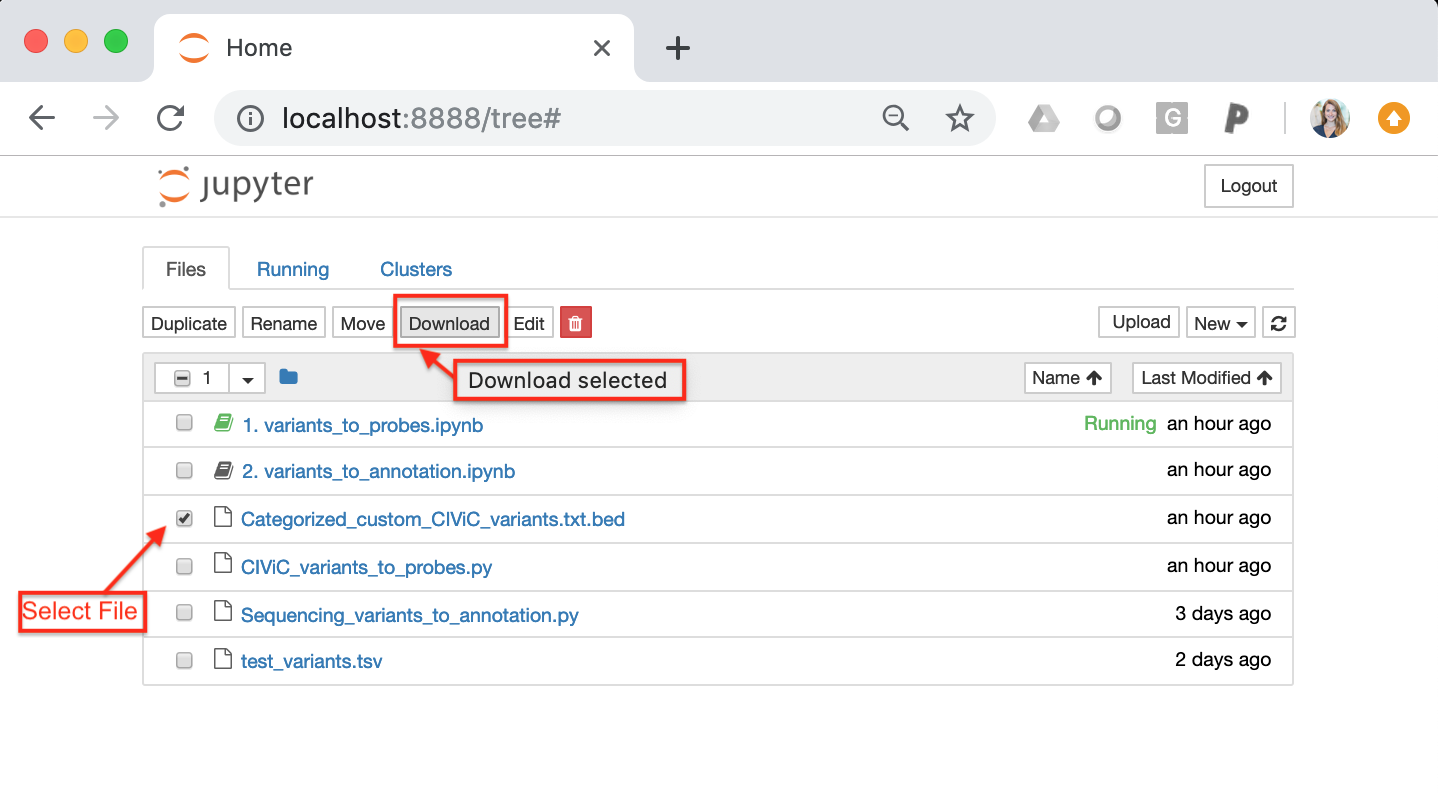
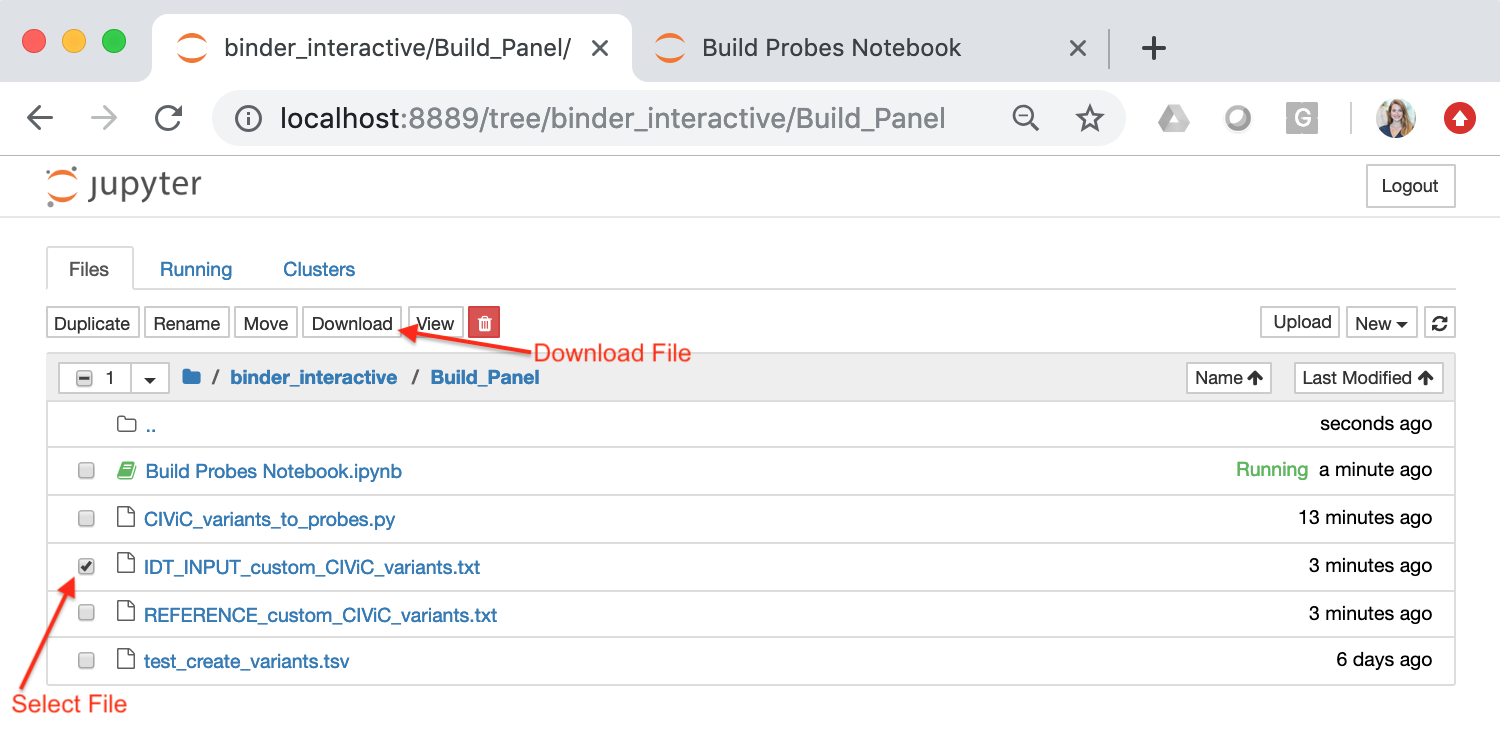
update Build capture panel section

diff --git a/binder_interactive/Build_Panel/CIViC_variants_to_probes.py b/binder_interactive/Build_Panel/CIViC_variants_to_probes.py
@@ -46,7 +46,6 @@ def create_probe_list(CIViC_variants):
         #Iterate through each variant an pull values
         variant = row['variant']
         gene = row['gene']
-        description = row['description']
         chrom = 'chr' + str(row['chromosome'])
         start = int(row['start'])
         stop = int(row['stop'])
@@ -56,20 +55,17 @@ def create_probe_list(CIViC_variants):
         if difference <= 250:
             #create probe for hotspot variant
             variant_type = 'hotspot coverage'
-            
-            probes_list.append([chrom, start, stop, variant, gene, description, str(1) + '-' + gene + '_' + variant, variant_type])
-        
-        
+            probes_list.append([chrom, start, stop + 1, variant, gene, str(1) + '-' + gene + '_' + variant, variant_type])        
         
         # If variant type is in a regulatory region or UTR
         elif 'INTRON' in variant or 'UTR' in variant:
             variant_type = 'sparse tiling'
-            probes_list.append([chrom, start, stop, variant, gene, description, str(1) + '-' + gene + '_' + variant, variant_type])
+            probes_list.append([chrom, start, stop, variant, gene, str(1) + '-' + gene + '_' + variant, variant_type])
         
         # for variant specific variant types pull CIViC coordiantes
         elif variant in civic_coordinate_variants:
             variant_type = 'sparse tiling'
-            probes_list.append([chrom, start, stop, variant, gene, description, str(1) + '-' + gene + '_' + variant, variant_type])
+            probes_list.append([chrom, start, stop, variant, gene, str(1) + '-' + gene + '_' + variant, variant_type])
         
         #If the transcript requires full tiling
         else:
@@ -103,7 +99,7 @@ def create_probe_list(CIViC_variants):
                     start = int(middle - 60)
                     stop = int(middle + 60)
                     #append this genomic region to list
-                    probes_list.append([chromosome, start, stop, variant, gene, description, str(i + 1) + '-' + gene + '_' + variant, variant_type])
+                    probes_list.append([chromosome, start, stop, variant, gene, str(i + 1) + '-' + gene + '_' + variant, variant_type])
 
             
             #Else complete full tiling
@@ -115,7 +111,7 @@ def create_probe_list(CIViC_variants):
                     chromosome = 'chr' + str(row[0])
                     start = int(row[1])
                     stop = int(row[2])
-                    probes_list.append([chromosome, start, stop, variant, gene, description, str(i + 1) + '-' + gene + '_' + variant, variant_type])
+                    probes_list.append([chromosome, start, stop, variant, gene, str(i + 1) + '-' + gene + '_' + variant, variant_type])
                 
     #Create pandas dataframe of probe list
     probes = pd.DataFrame(probes_list)
@@ -125,5 +121,5 @@ def create_probe_list(CIViC_variants):
 probe_list = create_probe_list(CIViC_variants)
 
 #Output probe list to output path
-probe_list.iloc[:,0:3].to_csv('Categorized_custom_CIViC_variants.bed', index=False, sep='\t', header=False)
-probe_list.to_csv('Categorized_custom_CIViC_variants.txt', index=False, sep='\t', header=False)
+probe_list.iloc[:,0:3].to_csv('IDT_INPUT_custom_CIViC_variants.txt', index=False, sep='\t', header=False)
+probe_list.to_csv('REFERENCE_custom_CIViC_variants.txt', index=False, sep='\t', header=False)

diff --git a/docs/Build custom capture panel.rst b/docs/Build custom capture panel.rst
@@ -68,17 +68,21 @@ Once the Jupiter Notebook is loaded, you can add your Custom CIViC Variants file
 
 .. image:: images/Upload_Variants.png
 
-To launch the Jupyter Notebook select the file entitled, "1. variants_to_probes.ipynb" in the home directory. Selecting this file will direct you to a new tab in the same browser. Instructions for how to run the cells are provided in the notebook. In the Jupyter Notebook cell, ensure that you change the input variant list file name to match the Custom CIViC Variants file that you uploaded to the home directory. The default file name is 'test_variants.tsv' - See below:
+To launch the Jupyter Notebook select the file entitled, "Build Probes Notebook" in the home directory. Selecting this file will direct you to a new tab in the same browser. Instructions for how to run the cells are provided in the notebook. In the Jupyter Notebook cell, ensure that you change the input variant list file name to match the Custom CIViC Variants file that you uploaded to the home directory. The default file name is 'test_variants.tsv' - See below:
 
 .. image:: images/Run_variants_to_probes.png
 
-Once you have changed the file name, hold down the "Shift" key and select "Enter" to parse your Custom CIViC variants. Once the code is done, a new file will appear in the home directory called "Categorized_custom_CIViC_variants.txt.bed". You can download this file to your local computer 
+Once you have changed the input file name, hold down the "Shift" key and select "Enter" to parse your Custom CIViC variants. Once the code is done, two new files will appear in the home directory:
+	- IDT_INPUT_custom_CIViC_variants.txt = coordinates for all probes required to capture variants of interest without annotation
+	- REFERENCE_custom_CIViC_variants.txt = list of all probes required to capture variants of interest with annotation (gene name, probe id, type of tiling)
+
+You can download these files to your local computer by checking the box next to the file of interest and selecting the "Download" button:
 
 .. image:: images/Download_variants.png
 
-The file should be a tab separated bed file whereby each row represents a genomic region that requires coverage. An example file is shown below:
+The file entitled "IDT_INPUT_custom_CIViC_variants.txt" will serve as the input file for probe design. This file should be a tab separated text file whereby each row represents a genomic region that requires coverage. An example file is shown below:
 
-TO:DO .. image:: INSERT EXAMPLE IMAGE
+.. image:: images/Example_BED.png
 
 
 ---------------------------
@@ -93,7 +97,7 @@ After generating the Categorized_custom_CIViC_variants.txt.bed file. You can acc
 
 	- `NimbleGen SeqCap <https://sequencing.roche.com/en/products-solutions/by-category/target-enrichment/hybridization/seqcap-ez-prime-choice-probes.html>`_
 
-We will demonstrate custom capture panel development using the `IDT Target Capture Probe Design & Ordering Tool <https://www.idtdna.com/site/order/ngs>`_. First, under "Input Format", select the "Coordinates (BED)" option. Next, select the "Upload File" option and click on the upload human genomic coordinates button. Upload the file that was prepared using the CIViC interface. By default, this file will be called, "Categorized_custom_CIViC_variants.txt.bed".
+We will demonstrate custom capture panel development using the `IDT Target Capture Probe Design & Ordering Tool <https://www.idtdna.com/site/order/ngs>`_. First, under "Input Format", select the "Coordinates (BED)" option. Next, select the "Upload File" option and click on the upload human genomic coordinates button. Upload the file that was prepared using the CIViC interface (IDT_INPUT_custom_CIViC_variants.txt).
 
 We also recommend looking at the Design Parameters to ensure proper capture design. Ensure that the following parameters are selected: 
 	- Target species = "Human (Feb. 2009 GRCh37/hg19)"
@@ -101,5 +105,9 @@ We also recommend looking at the Design Parameters to ensure proper capture desi
 	- Probe Length = 120 basepairs
 	- Probe Tiling Density = 1X
 
-TODO: REVIEW DESIGN ORDER ETC.
+Successful upload of the text file should look like this:
+
+.. image:: images/IDT_upload.png
+
+Once the files are successfully uploaded, select the "Continue" button to develop the reagent. Of note, you must be logged into the interface to continue with this process. The next steps include reviewing the design, ordering probes, ordering buffers, and ordering blocking oligos. Once the panel design has been reviewed, you can purchase the reagents through the IDT interface.
 

diff --git a/docs/Identify somatic variants.rst b/docs/Identify somatic variants.rst
@@ -120,11 +120,14 @@ Germline variant filtering can be accomplished following the commands on the `Ge
 Somatic Variant Analysis
 >>>>>>>>>>>>>>>>>>>>>>>>>>
 
-In addition to germline variant calling, somatic variant calling can be performed by comparing the tumor and normal alignments to observe differences that are only intrinsic to the tumor sample. Somatic variant calling is a similar process, but it requires the variant to be exclusively observed in the tumor tissue and not present in the germline (normal) tissue. Below we describe automated methods for bother germline and somatic variant calling.
+In addition to germline variant calling, somatic variant calling can be performed identifying differences that are intrinsic to the tumor sample and not observed in the matched normal samples. Somatic variant calling requires looking for single nucleotide variants (SNVs), insertions and deletions (indels), copy number variants (CNVs), structural variants (SVs), and loss of heterozygosity (LOH). These different types of variants can be identified by using various software including: Pindel, VarScan, Mutect, Strelka, or a combination of multiple variant callers. Additionally, somatic variants can be further confirmed by comparing identified variants to variant databases such as:
+	- `gnomAD <https://gnomad.broadinstitute.org/>`_: (123,136 WXS and 15,496 WGS) 
+	- `1000 genome <http://www.internationalgenome.org/>`_: 1000 genome projects
+	- `Exome Aggregation Consortium <http://exac.broadinstitute.org/>`_: (~60,000 individuals)
+	- `Exome sequencing project <https://esp.gs.washington.edu/drupal/>`_: (~6,500 individuals)
 
->>>>>>>>>>>>>>>>>>>>>>>>
-Somatic Variant Calling
->>>>>>>>>>>>>>>>>>>>>>>>
+
+
 
 
 
@@ -135,16 +138,16 @@ Somatic Variant Refinement
 
 Following automated somatic variant calling, somatic variant refinement is required to identify a high-quality list of variants associated with an individual's tumor. Somatic variant refinement requires either employing an algorithm on the sequencing data to further filter sequencing artifacts or visualizing aligned reads in a genomic viewer and manually refining variants using common sequencing tags. Both of these methods for somatic variant refinement have been described:
 
-1) DeepSVR: A deep learning approach to automate refinement of somatic variant calling from cancer sequencing data
+	1) DeepSVR: A deep learning approach to automate refinement of somatic variant calling from cancer sequencing data
  
 	Ainscough, B.J., Barnell E.K., Griffith, M., Rohan, T.E., Govindan, R., Mardis, E.R., Swamidass. J.S., Griffith O.L. Deep Learning Approach to Automating Somatic Variant Refinement. Nature Genetics, 2018 [Epub ahead of print]. (https://doi.org/10.1038/s41588-018-0257-y)
 
 
-2) Manual Review: Standard operating procedure for somatic variant refinement of sequencing data with paired tumor and normal samples
+	2) Manual Review: Standard operating procedure for somatic variant refinement of sequencing data with paired tumor and normal samples
 
 	Barnell E.K., Ronning P., Campbell K.M., Krysiak K., Ainscough B.J., Sheta L.M., Pema S.P., Schmidt A.D., Richters M., Cotto K.C., Danos A.M., Ramirez C., Skidmore Z.L., Spies N.C., Hundal J., Sediqzad M.S., Kunisaki J., Gomez F., Trani L., Matlock M., Wagner A.H., Swamidass S.J., Griffith M., Griffith O.L. Standard operating procedure for somatic variant refinement of sequencing data with paired tumor normal samples. Genetics in Medicine, October 5, 2018 [Epub ahead of print]. (https://doi.org/10.1038/s41436-018-0278-z)
 
-After employing somatic variant refinement strategies on the somatic variant list, the final 
+After employing somatic variant refinement strategies on the somatic variant list, the final list of putative somatic variants can be used 
 	
 
 
